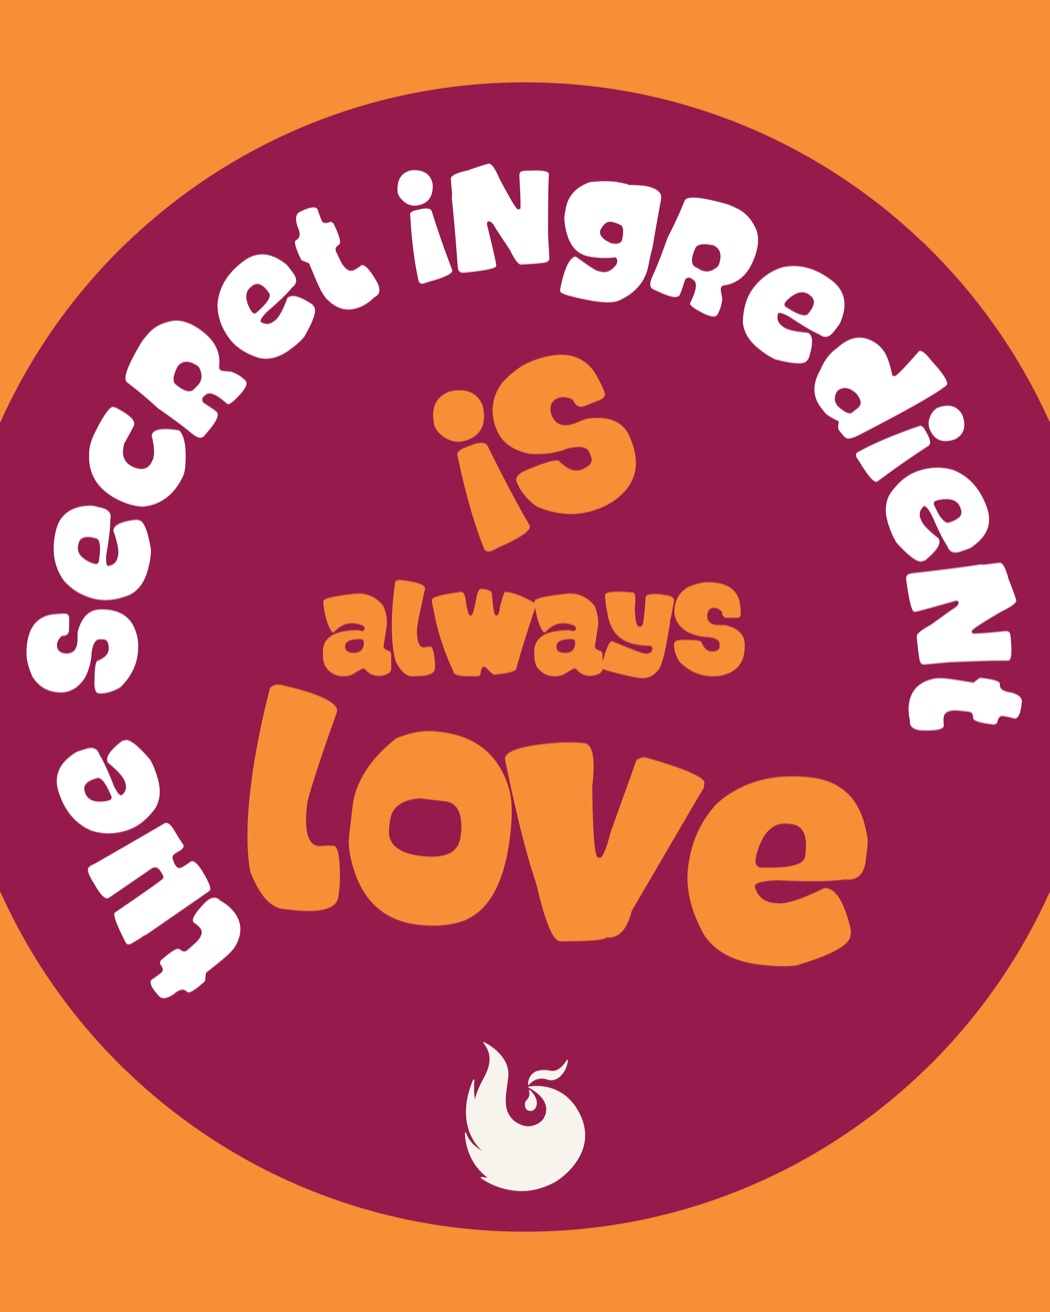
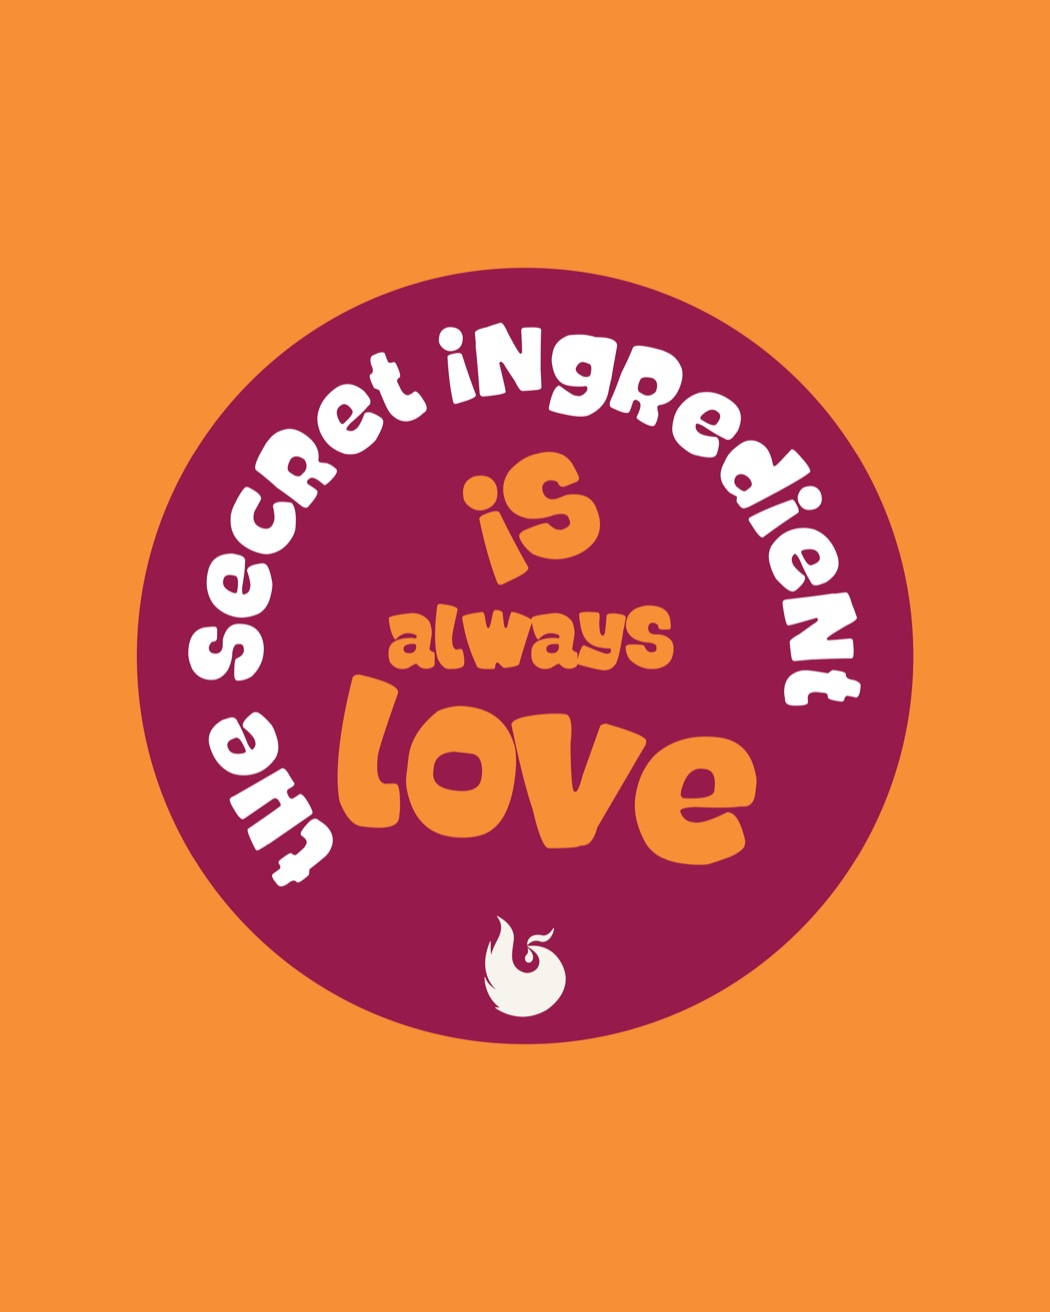
Scale down the secret-ingredient badge so it doesn't touch the frame edges
Re-crops from the 300 DPI source with the circle at ~74% of frame width instead of filling it edge-to-edge, giving consistent orange margin on all sides.

diff --git a/story.html b/story.html
@@ -82,8 +82,8 @@
     <div class="about-top">
       <div class="about-visual">
         <picture>
-          <source srcset="assets/images/about-secret-ingredient-sm.webp 600w, assets/images/about-secret-ingredient.webp 1050w" sizes="(max-width: 960px) 380px, 500px" type="image/webp">
-          <img srcset="assets/images/about-secret-ingredient-sm.jpg 600w, assets/images/about-secret-ingredient.jpg 1050w" sizes="(max-width: 960px) 380px, 500px" src="assets/images/about-secret-ingredient.jpg" data-i18n-attr-alt="about.visualAlt" alt="Don Chicko badge: the secret ingredient is always love" loading="lazy" decoding="async">
+          <source srcset="assets/images/about-secret-ingredient-sm.webp?v=2 600w, assets/images/about-secret-ingredient.webp?v=2 1050w" sizes="(max-width: 960px) 380px, 500px" type="image/webp">
+          <img srcset="assets/images/about-secret-ingredient-sm.jpg?v=2 600w, assets/images/about-secret-ingredient.jpg?v=2 1050w" sizes="(max-width: 960px) 380px, 500px" src="assets/images/about-secret-ingredient.jpg?v=2" data-i18n-attr-alt="about.visualAlt" alt="Don Chicko badge: the secret ingredient is always love" loading="lazy" decoding="async">
         </picture>
         <div class="about-visual-badge">
           <span class="flame-shape" aria-hidden="true"></span>
